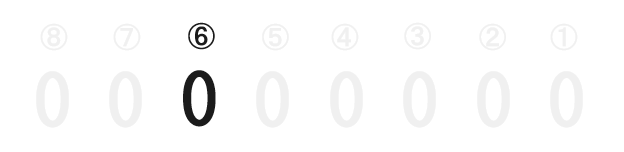
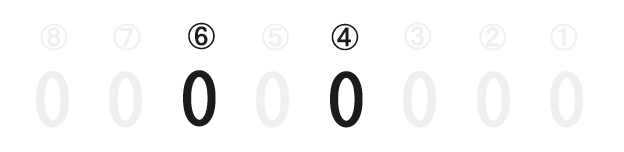
update

Changed region(s): [[0.5176, 0.4474, 0.609, 0.8421], [0.5176, 0.1579, 0.5785, 0.3421]]

diff --git a/program/ssUnity/FLAG.md b/program/ssUnity/FLAG.md
@@ -191,11 +191,17 @@ CPUを左側にドリフトさせる。
 
 ![mdlFlagNum1](/program/ssUnity/image/mdlFlagNum1.png)
 
+【4番目？】
+
+AMBの設定。
+
+実際に判定はしてないので、メモとしての表記と思われる。
+
 【6番目】
 
 橋の通過音の設定（レールフラグの1番目の2と同じ）
 
-~~【6番目以外】~~
+~~【その他】~~
 
 **使わない。** 
 
